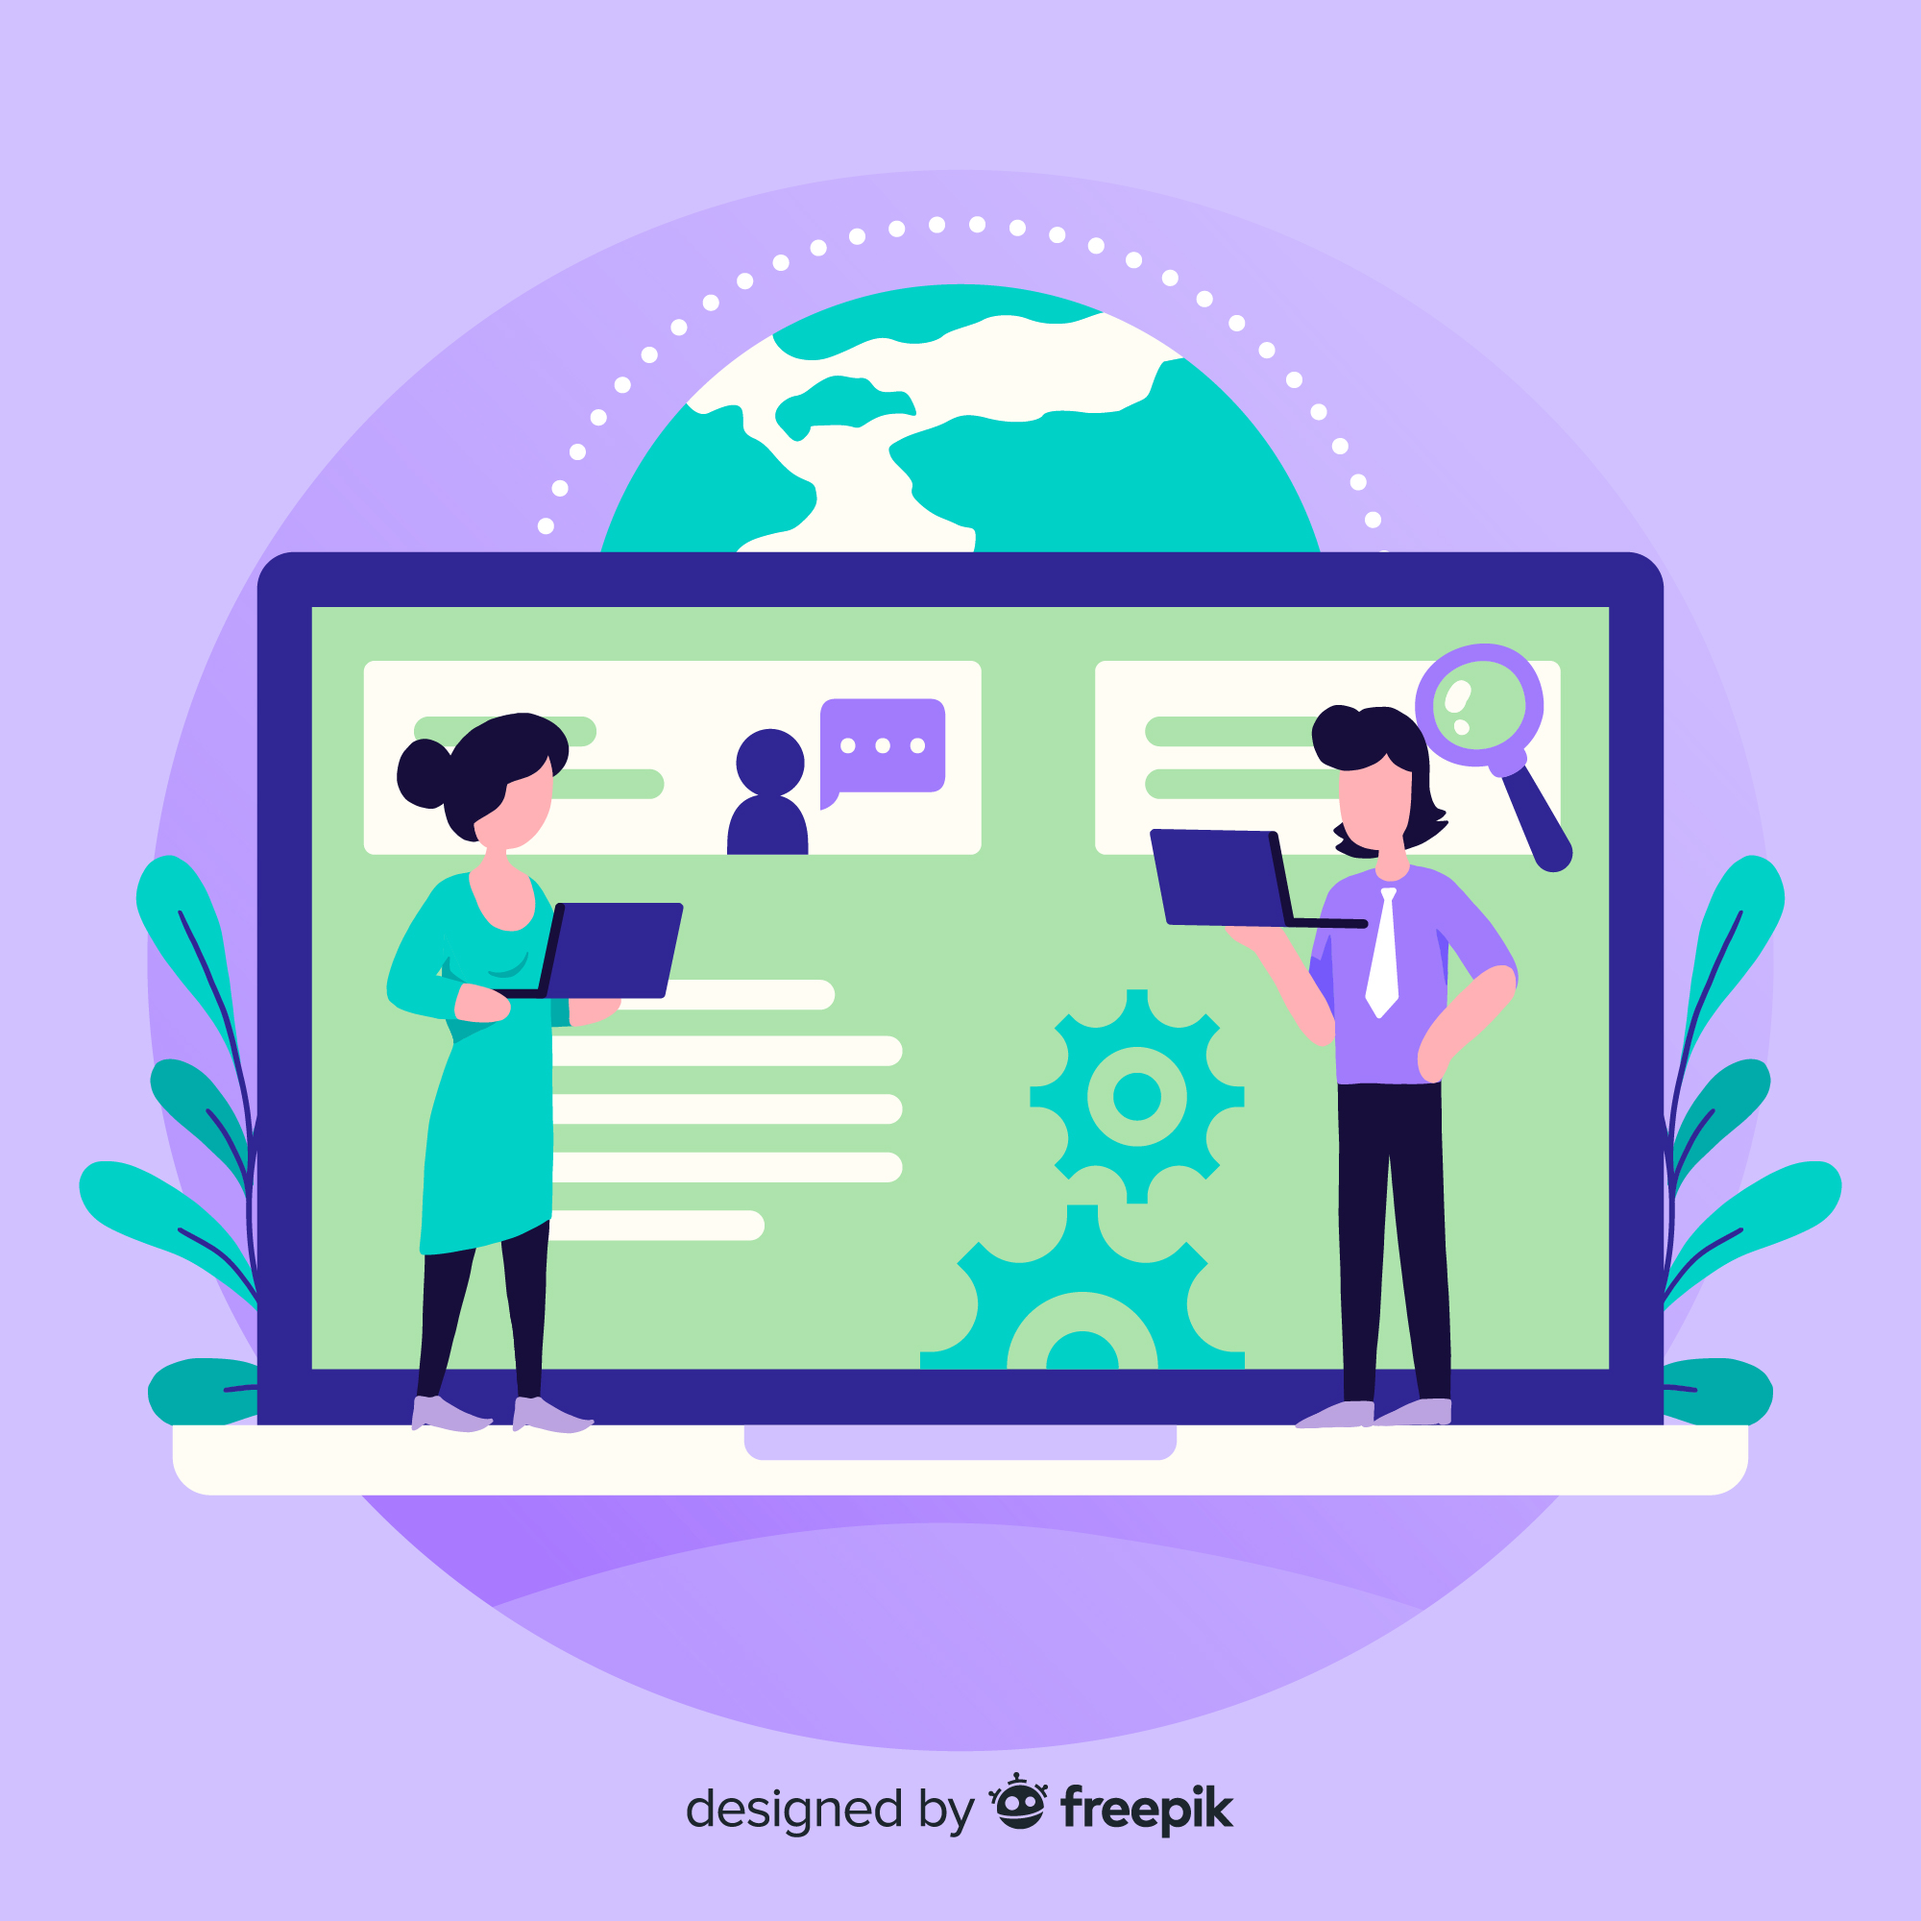
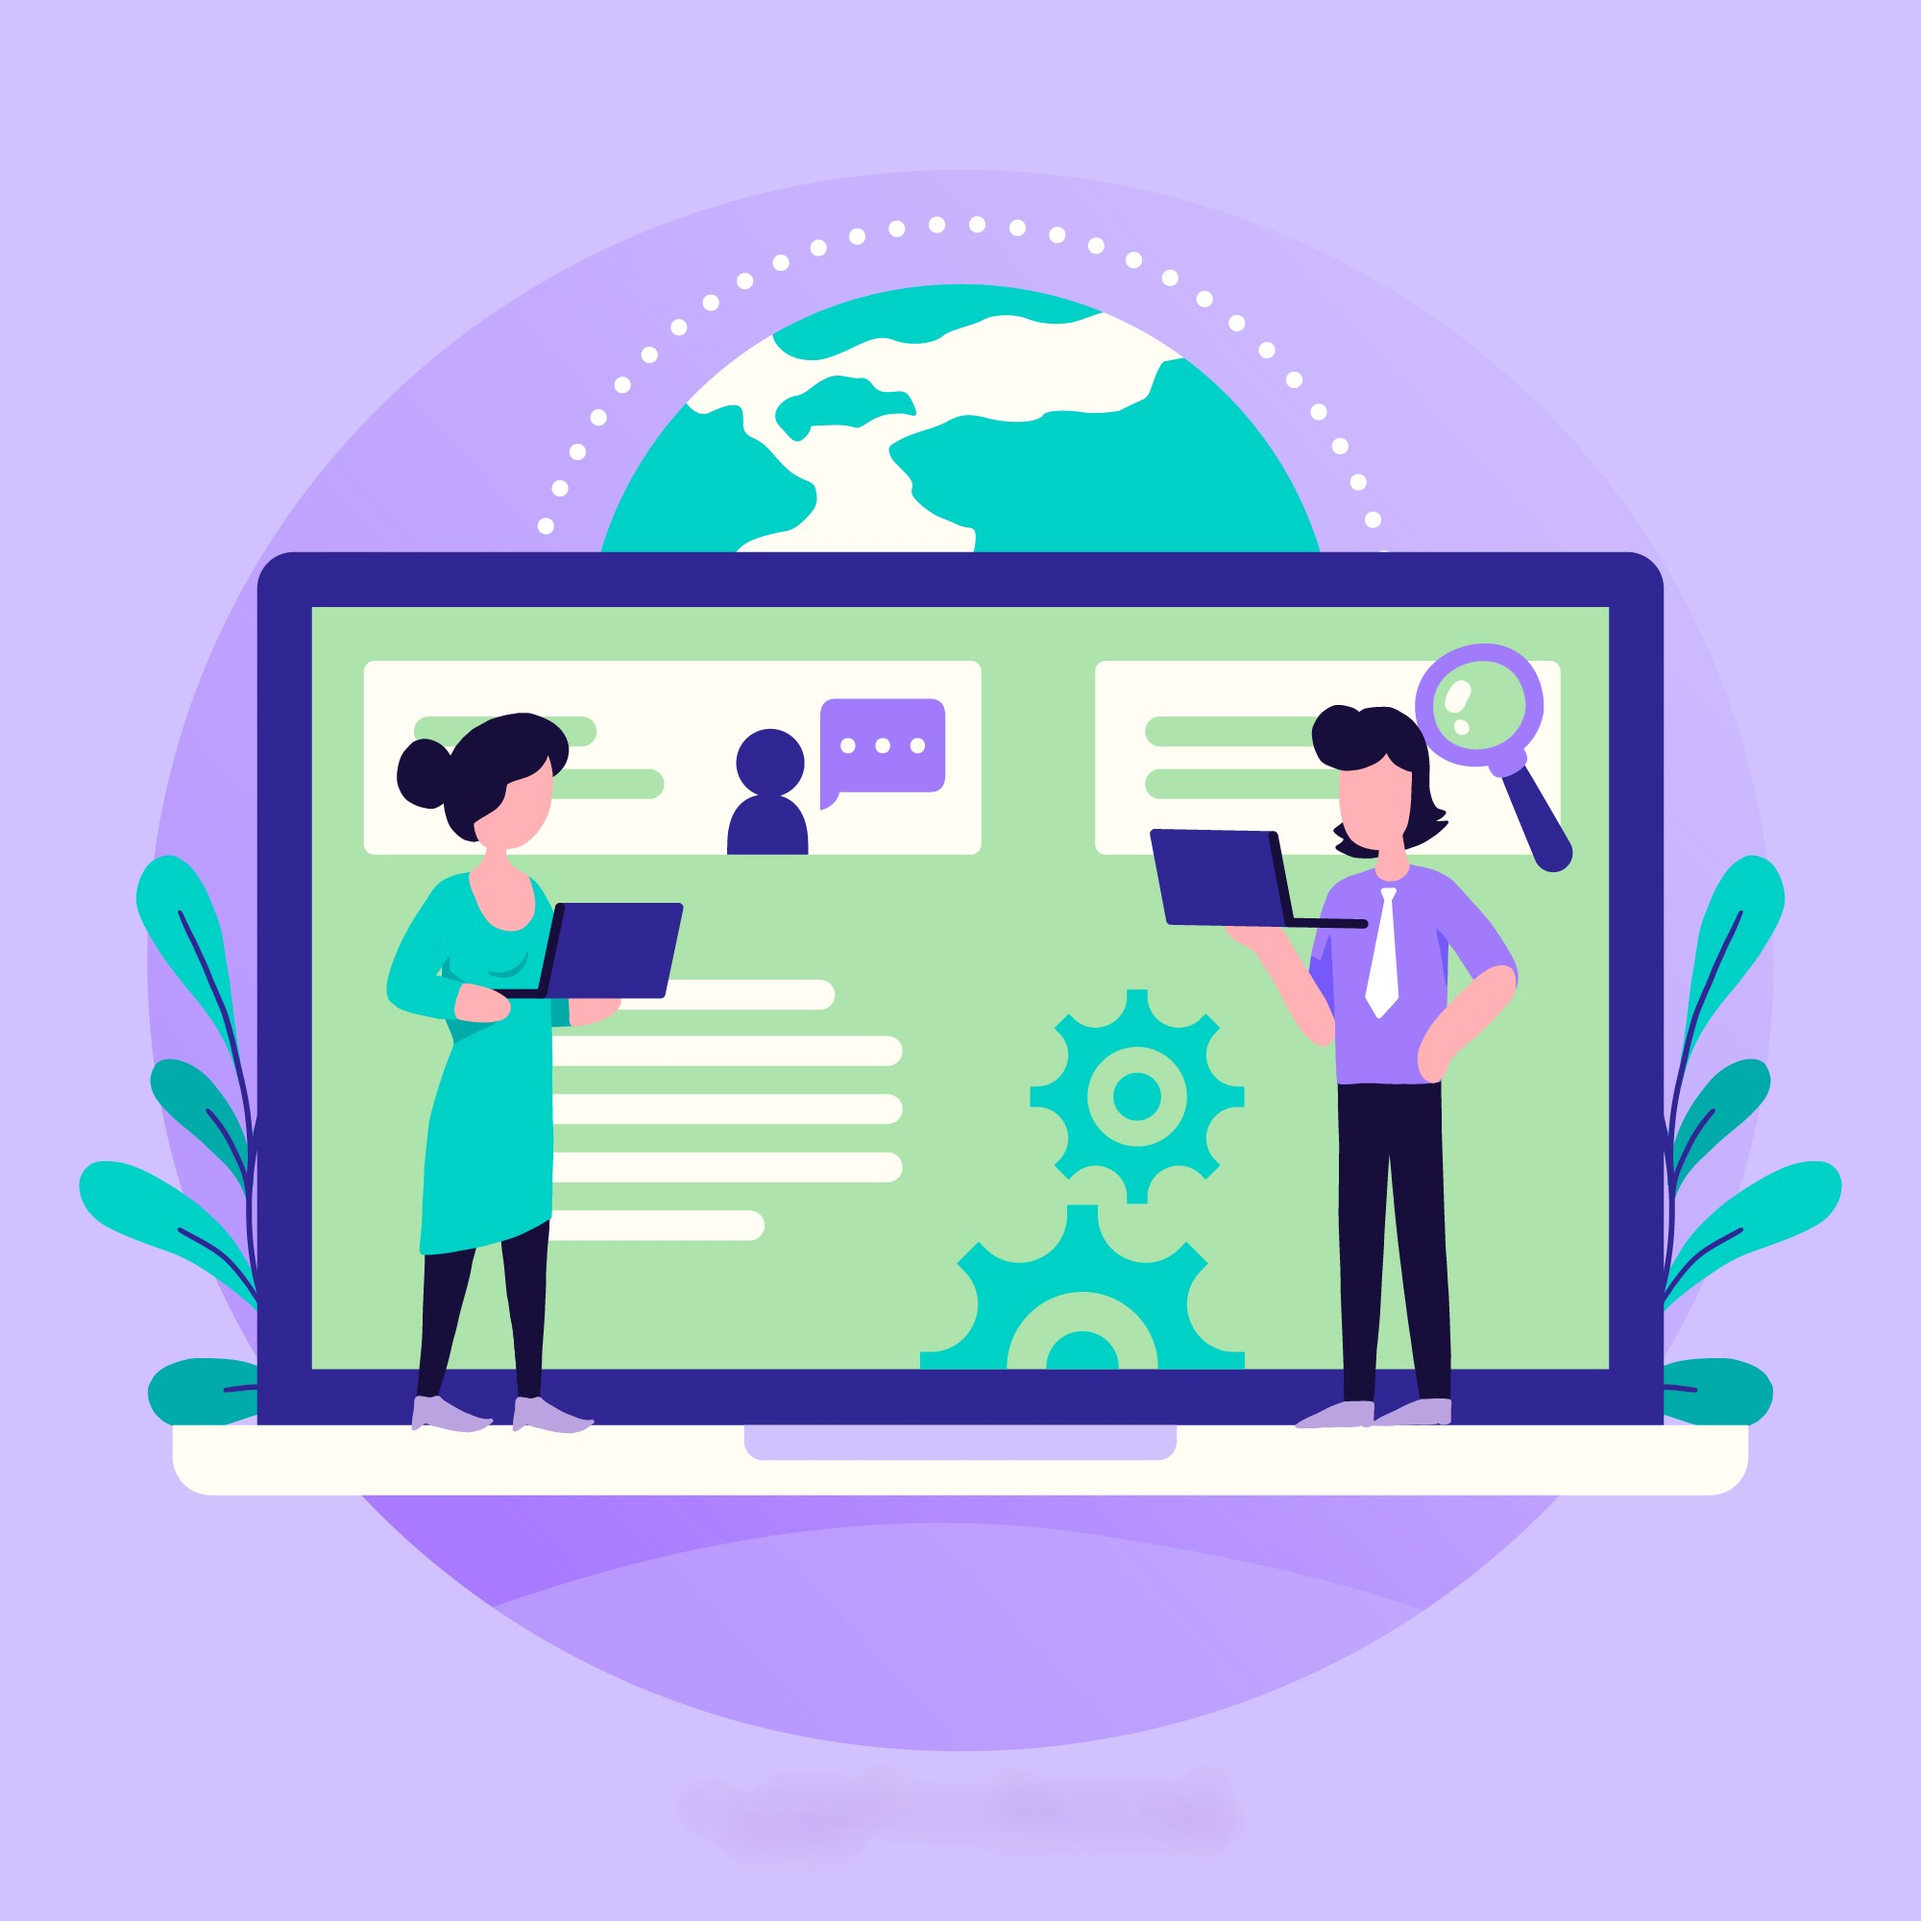
Modificación 2

diff --git a/proyectos.html b/proyectos.html
@@ -39,32 +39,32 @@
             <div class="container">
                 <div>
                     <a href="Proyectos/AG2-Grupo11-.sql" target="_blank">
-                        <img src="img/BBDD.jpg" alt=""><span>Base de Datos</span>
+                        <img src="img/BBDD.jpg" alt=""><span>Base de Datos</span> <!--Creador: freepik-->
                     </a>
                 </div>
                 <div>
                     <a href="Proyectos/Actividad nómina- Daina Díaz.pdf" target="_blank">
-                        <img src="img/FOL.jpg" alt=""><span>Formación y Orientación Laboral</span>
+                        <img src="img/FOL.jpg" alt=""><span>Formación y Orientación Laboral</span> <!--Creador: gstudioimagen en freepik-->
                     </a>  
                 </div>
                 <div>
                     <a href="https://daina1997.github.io/web_corporativa/" target="_blank">
-                        <img src="img/LM.jpg" alt=""><span>Lenguaje de Marcas</span>
+                        <img src="img/LM.jpg" alt=""><span>Lenguaje de Marcas</span> <!--Creador: vectorjuice en freepik-->
                     </a>
                 </div>
                 <div>
                     <a href="Proyectos/DDB_Actividad3.zip" target="_blank">
-                        <img src="img/PRO.jpg" alt=""><span>Programación</span>
+                        <img src="img/PRO.jpg" alt=""><span>Programación</span> <!--Creador: storyset en freepik-->
                     </a>
                 </div>
                 <div>
                     <a href="Proyectos/Entrega 4-Daina Diaz.pdf" target="_blank">
-                        <img src="img/SIS.jpg" alt=""><span>Sistemas Informáticos</span>
+                        <img src="img/SIS.jpg" alt=""><span>Sistemas Informáticos</span> <!--Creador: freepik-->
                     </a>
                 </div>
                 <div>
                     <a href="Proyectos/DBD_Parte1.pdf" target="_blank">
-                        <img src="img/ENT.jpg" alt=""><span>Entornos de desarrollo</span>
+                        <img src="img/ENT.jpg" alt=""><span>Entornos de desarrollo</span> <!--Creador: pikisuperstar en freepik-->
                     </a>
                 </div>
             

diff --git a/style.css b/style.css
@@ -23,7 +23,7 @@ section{
     width: 100%;
     height: 100vh;
     display: flex; /*Es una propiedad de flebox y permite que los elementos de este contenedor sean mucho más flexibles y manejables.
-    las propiedades justify-content y align-items se utilizan junto con display flex y son cruciales para controlar la alineación y 
+    las propiedades justify-content y align-items se utilizan junto con display flex y se usan para controlar la alineación y 
     distribución del espacio entre y alrededor de los elementos hijos del contenedor flex.*/
     justify-content: center;
     align-items: center;
@@ -699,10 +699,9 @@ textarea{
 
 
 
-
-
-
 /*Responsive:*/
+
+/*Comentar que para que quedara una transición algo más fluída, el rango de 576px a 992px lo he hecho en dos partes.*/
 
 @media screen and (max-width:576px){
     /*Cabecera*/
@@ -1229,7 +1228,7 @@ textarea{
         width: 50vh;
     }
     .contenido .img1 img{
-        width: 47vh;
+        width: 45vh;
         height: auto;
     }
     .redessociales{

diff --git a/quiensoy.html b/quiensoy.html
@@ -65,7 +65,7 @@
                 </div>
 
                 <div class="img2">
-                    <img src="img/girl1.png" alt="">
+                    <img src="img/girl1.png" alt=""> <!--Imagen generada con IA (chatgpt)-->
                 </div>
             </div>
             <footer>

diff --git a/index.html b/index.html
@@ -45,7 +45,7 @@
             </div>
 
             <div class="img1">
-                <img src="img/portatil.png" alt="">
+                <img src="img/portatil.png" alt=""> <!--Creador: rawpixel.com en freepik-->
             </div>
 
             <ul class="redessociales">
